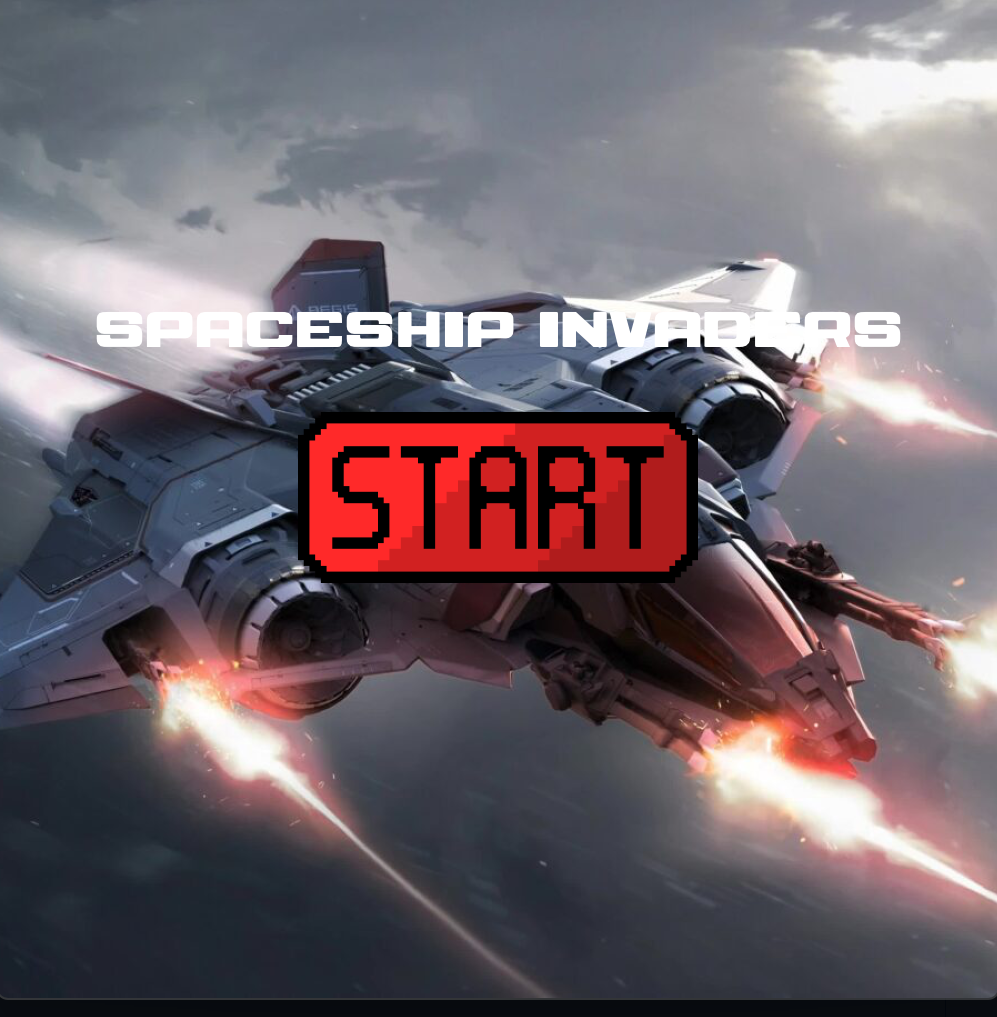
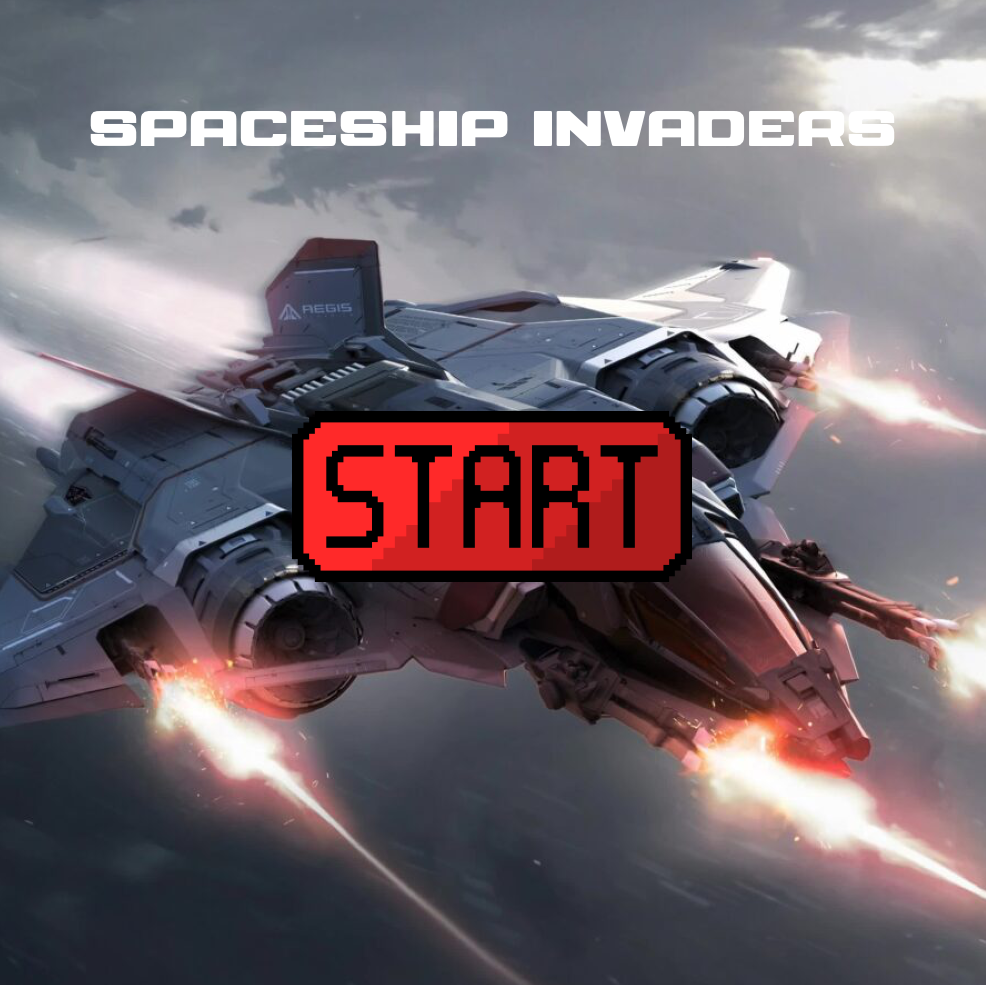
fifth commit

diff --git a/src/mainmenu.cpp b/src/mainmenu.cpp
@@ -52,6 +52,6 @@ void MainMenu::CheckStartButtonClick(Vector2 mousePos){
 void MainMenu::DrawText(){
     const char* text = "SPACESHIP INVADERS";
     int textWidth = MeasureTextEx(font, text, 64, 2).x;
-    Vector2 textPos = { GetScreenWidth() / 2.0f - textWidth / 2.0f, startButtonRect.y - 200 };
+    Vector2 textPos = { GetScreenWidth() / 2.0f - textWidth / 2.0f, startButtonRect.y - 400 };
     DrawTextEx(font, text, textPos, 64, 2, WHITE);
 }
